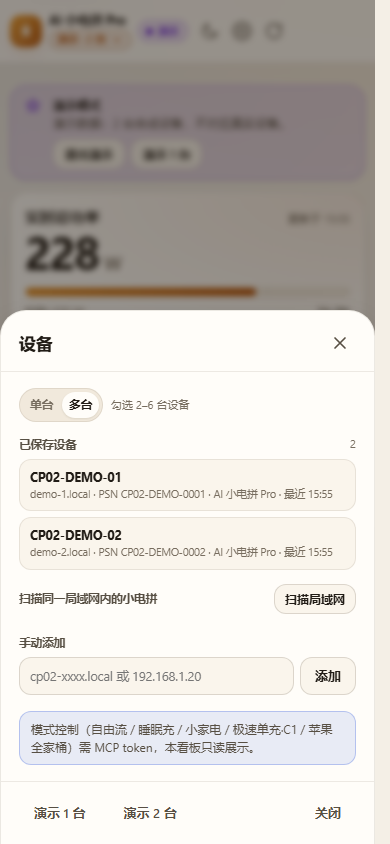
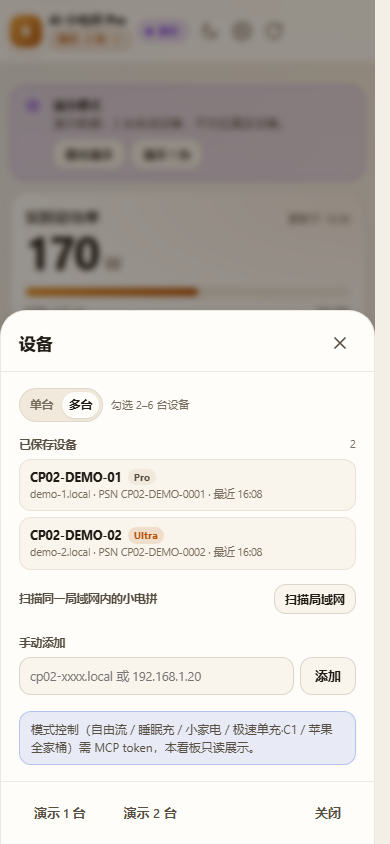
fix: keep saved devices in sync with live Pro/Ultra model, support mixed devices
- update saved device name/psn/model/modelLabel/lastSeen from each live snapshot
- store model in device entries; show Pro/Ultra tier badges
- demo 2 devices now mixes Pro + Ultra for mixed-mode QA
- scan results use dynamic model label instead of hardcoded Ultra

diff --git a/assets/js/app.js b/assets/js/app.js
@@ -35,6 +35,7 @@ import {
   scanLan,
   setActiveDevice,
   setMultiSelection,
+  updateDeviceMeta,
   upsertDevice,
 } from "./data.js";
 import { PowerChart, drawSparkline } from "./charts.js";
@@ -379,6 +380,37 @@ function cssVar(name, fallback) {
 
 function savedDevices() {
   return getDevices();
+}
+
+// Keep saved device labels in sync with the live snapshot (e.g. Pro vs Ultra),
+// so the device dialog does not keep a stale "Pro / Ultra" label forever.
+function syncSavedDeviceMeta(devices) {
+  if (state.demo) return;
+  let changed = false;
+  for (const device of devices || []) {
+    const snapshot = device.device || {};
+    const host = device.host || hostForRequests();
+    if (!host) continue;
+    const meta = {
+      name: snapshot.name || "",
+      psn: snapshot.psn || "",
+      model: snapshot.model || "",
+      modelLabel: snapshot.modelLabel || "",
+      lastSeen: Number(device.fetchedAt) || Date.now(),
+    };
+    const existing = savedDevices().find((item) => item.host === host);
+    if (!existing) {
+      upsertDevice({ host, ...meta });
+      changed = true;
+      continue;
+    }
+    if (updateDeviceMeta(host, meta).updated) changed = true;
+  }
+  if (changed) {
+    state.settings = effectiveSettings();
+    if (getDevices().length > 0) state.discovery.active = false;
+    if (dom.deviceDialog?.open) renderDeviceDialog();
+  }
 }
 
 function sortedDevices() {
@@ -852,6 +884,7 @@ function addDeviceEntry(device, { use = false } = {}) {
     host,
     name: device.name || "",
     psn: device.psn || "",
+    model: device.model || "",
     modelLabel: device.modelLabel || "",
     lastSeen: Date.now(),
   });
@@ -1842,6 +1875,7 @@ function deviceDialogVisibleList() {
       host: device.host,
       name: deviceName(device),
       psn: device.device?.psn || "",
+      model: device.device?.model || "",
       modelLabel: device.device?.modelLabel || "",
       lastSeen: device.fetchedAt,
       demo: true,
@@ -1903,12 +1937,17 @@ function renderDeviceDialog() {
     const name = document.createElement("p");
     name.className = "device-name";
     name.textContent = device.name || device.host;
+    if (device.model === "pro" || device.model === "ultra") {
+      const tier = document.createElement("span");
+      tier.className = `device-tier is-${device.model}`;
+      tier.textContent = device.model === "ultra" ? "Ultra" : "Pro";
+      name.append(tier);
+    }
     const meta = document.createElement("p");
     meta.className = "device-meta";
     meta.textContent = [
       device.host,
       device.psn ? `PSN ${state.demo ? device.psn : maskPsn(device.psn)}` : "",
-      device.modelLabel ? device.modelLabel.replace(/（[^）]*）|\([^)]*\)/g, "").trim() : "",
       Number.isFinite(device.lastSeen) ? `${t("lastSeen")} ${fmtClock(device.lastSeen)}` : "",
     ]
       .filter(Boolean)
@@ -2314,19 +2353,7 @@ function applyAggregate(payload) {
 
   for (const device of devices) storeForDevice(device).add(device);
 
-  if (!state.demo && getDevices().length === 0 && devices.length > 0) {
-    for (const device of devices) {
-      upsertDevice({
-        host: device.host || hostForRequests(),
-        name: device.device?.name || "",
-        psn: device.device?.psn || "",
-        modelLabel: device.device?.modelLabel || "",
-        lastSeen: Date.now(),
-      });
-    }
-    state.settings = effectiveSettings();
-    state.discovery.active = false;
-  }
+  syncSavedDeviceMeta(devices);
 
   if (!state.historySeeded) {
     state.historySeeded = true;

diff --git a/assets/js/data.js b/assets/js/data.js
@@ -16,7 +16,7 @@ export { decodeProtocol, portColor, portName, portType };
 export const SETTINGS_KEY = "cocan-dash.settings.v1";
 export const DEFAULT_SETTINGS = {
   host: "",
-  devices: [], // [{ host, name, psn, modelLabel, lastSeen }]
+  devices: [], // [{ host, name, psn, model, modelLabel, lastSeen }]
   multi: false,
   multiHosts: [],
   mode: "auto", // auto | json | prometheus
@@ -40,6 +40,7 @@ function cleanDevices(list) {
       host,
       name: typeof item.name === "string" ? item.name.trim() : "",
       psn: typeof item.psn === "string" ? item.psn : "",
+      model: typeof item.model === "string" ? item.model : "",
       modelLabel: typeof item.modelLabel === "string" ? item.modelLabel : "",
       lastSeen: Number.isFinite(item.lastSeen) ? item.lastSeen : null,
     });
@@ -107,6 +108,7 @@ export function upsertDevice(device) {
     host,
     name: typeof device.name === "string" ? device.name.trim() : "",
     psn: typeof device.psn === "string" ? device.psn : "",
+    model: typeof device.model === "string" ? device.model : "",
     modelLabel: typeof device.modelLabel === "string" ? device.modelLabel : "",
     lastSeen: Number.isFinite(device.lastSeen) ? device.lastSeen : Date.now(),
   };
@@ -120,6 +122,33 @@ export function upsertDevice(device) {
       : [...current.multiHosts, host],
   });
   return settings.devices.find((d) => d.host === host) || entry;
+}
+
+export function updateDeviceMeta(host, meta = {}) {
+  const target = String(host || "").trim();
+  if (!target) return { updated: false };
+  const current = loadSettings();
+  const index = current.devices.findIndex((d) => d.host === target);
+  if (index < 0) return { updated: false };
+  const prev = current.devices[index];
+  const next = { ...prev };
+  let metadataChanged = false;
+  for (const key of ["name", "psn", "model", "modelLabel"]) {
+    const value = typeof meta[key] === "string" ? meta[key].trim() : "";
+    if (value && value !== prev[key]) {
+      next[key] = value;
+      metadataChanged = true;
+    }
+  }
+  const lastSeen = Number.isFinite(meta.lastSeen)
+    ? Math.max(Number(prev.lastSeen) || 0, meta.lastSeen)
+    : Date.now();
+  const lastSeenStale = !Number.isFinite(prev.lastSeen) || lastSeen - prev.lastSeen > 30000;
+  if (!metadataChanged && !lastSeenStale) return { updated: false };
+  next.lastSeen = lastSeen;
+  current.devices[index] = next;
+  saveSettings({ devices: current.devices });
+  return { updated: true, device: next };
 }
 
 export function removeDevice(host) {

diff --git a/assets/css/devices.css b/assets/css/devices.css
@@ -605,6 +605,28 @@
   white-space: nowrap;
 }
 
+.device-tier {
+  display: inline-block;
+  margin-left: 6px;
+  padding: 1px 6px;
+  border-radius: 999px;
+  font-size: 9.5px;
+  font-weight: 700;
+  line-height: 1.5;
+  letter-spacing: 0.04em;
+  vertical-align: 1px;
+}
+
+.device-tier.is-pro {
+  color: var(--text-2, #666);
+  background: var(--surface-3, #efefef);
+}
+
+.device-tier.is-ultra {
+  color: var(--accent);
+  background: color-mix(in srgb, var(--accent) 14%, transparent);
+}
+
 .device-meta {
   font-size: 10.5px;
   color: var(--text-3);

diff --git a/assets/js/demo.js b/assets/js/demo.js
@@ -139,8 +139,11 @@ function demoPort(id, spec, now, phaseElapsed) {
 
 function demoDevice(index) {
   const n = index + 1;
+  const isUltra = index === 1;
   return {
     ...DEMO_DEVICE,
+    model: isUltra ? "ultra" : "pro",
+    modelLabel: isUltra ? "AI 小电拼 Ultra（CP-02）" : "AI 小电拼 Pro（CP-02）",
     psn: `CP02-DEMO-000${n}`,
     name: `CP02-DEMO-0${n}`,
     mdnsHostname: `cp02-demo${n}.local`,

diff --git a/README.md b/README.md
@@ -50,8 +50,8 @@
   （充电中的线有流动虚线，可“重播功率流”）；**简洁视图**是五条端口色功率线，
   实心长度=当前输出、浅色轨道=端口能力（A 60 W、C 140 W），对齐官方 App 的 `160W / 5` 表达。
 - **实时总览**：总功率、在充口数、本次累计电量、DC 输入母线电压、开机时长。
-- **型号按设备自报显示**：本机 `device_model=pro` 就显示 **AI 小电拼 Pro**；Ultra 设备显示
-  **Ultra**，不会再固定写“Pro / Ultra”。
+- **Pro / Ultra 混用**：每台设备按 `device_model` 自动显示 **Pro** 或 **Ultra**；多台模式可同时
+  加入 Pro 与 Ultra，列表、端口和聚合功率各自归属，不会把整页写死成某一种型号。
 - **五口明细**：实时 W / V / A、快充协议（PD / PPS / QC / UFCS / VOOC…）、端口状态、
   本次充电时长、本次电量（由设备原始计数换算，±5% 估算）。
 - **扫描并选择设备**：首次打开自动扫描本机 /24 网段，列出发现的小电拼（名称 / PSN / 主机 / RSSI），
